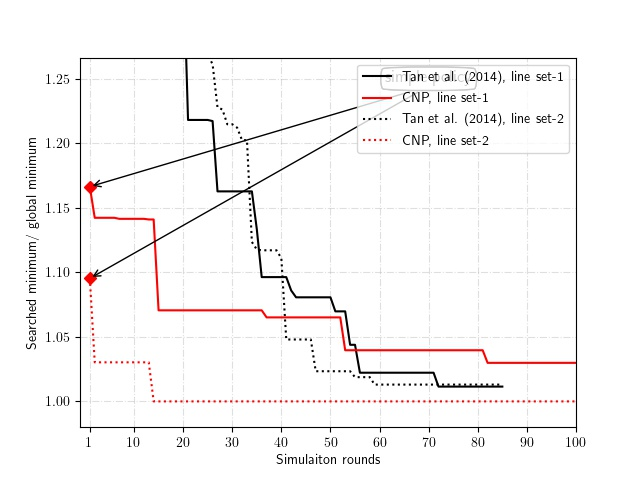
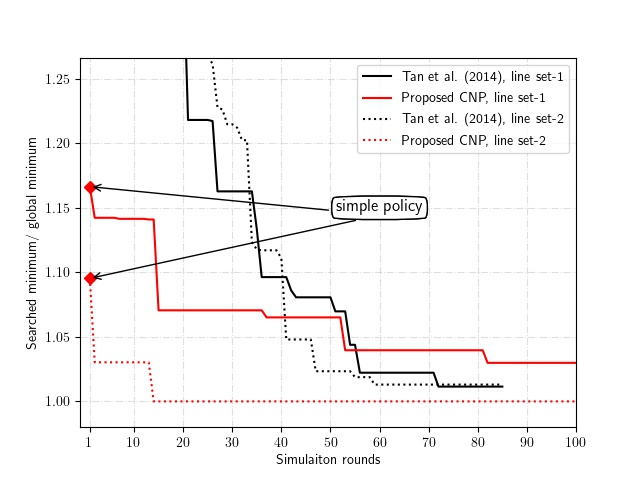
added figures in the paper

diff --git a/plot_enumerate.py b/plot_enumerate.py
@@ -11,7 +11,7 @@ total_flow = 135
 arrival_type = "Gaussian"
 mean_service = 25
 signal_setting = None
-# signal_setting = (120, 0.5, 3)
+signal_setting = (120, 0.5, 3)
 
 ### figure setting
 line_styles_dict = {"FIFO": "solid", "LO-Out": "dashed", "FO-Bus": "dotted"}
@@ -22,7 +22,7 @@ setno_styles_dict = {0: "solid", 1: "dashed", 2: "dotted"}
 setno_styles_dict = {0: "solid", 1: "dotted", 2: "dashed"}
 
 if signal_setting is None:
-    ann_text_pos = {"FIFO": (60, 1.1), "LO-Out": (60, 1.25), "FO-Bus": (70, 1.25)}
+    ann_text_pos = {"FIFO": (60, 1.07), "LO-Out": (50, 1.20), "FO-Bus": (60, 1.15)}
 else:
     ann_text_pos = {"FIFO": (60, 1.1), "LO-Out": (60, 1.25), "FO-Bus": (70, 1.15)}
 
@@ -72,7 +72,7 @@ for queue_rule in ["FIFO", "LO-Out", "FO-Bus"]:
             linewidth=1.5,
             label=tan_label,
         )
-        cnp_label = "CNP, line set-" + str(set_str_count)
+        cnp_label = "Proposed CNP, line set-" + str(set_str_count)
         ax.plot(
             x_cnp,
             cnp_norm_history_delays,

diff --git a/algo_experiment.py b/algo_experiment.py
@@ -57,7 +57,7 @@ def main(
     else:
         for sim_budget in [100]:
             for max_depth in [4]:
-                for sample_num_of_each_region in [6]:
+                for sample_num_of_each_region in [5]:
                     algo_ex.info["sim_budget"] = sim_budget
                     algo_ex.info["max_depth"] = max_depth
                     algo_ex.info[

diff --git a/algo_main.py b/algo_main.py
@@ -14,9 +14,9 @@ def config():
     # signal_paras = None
     # signal_paras = {"cycle_length": 120, "green_ratio": 0.5, "buffer_size": 3}
 
-    cycle_length = None
-    green_ratio = None
-    buffer_size = None
+    # cycle_length = None
+    # green_ratio = None
+    # buffer_size = None
 
     cycle_length = 120
     green_ratio = 0.5
